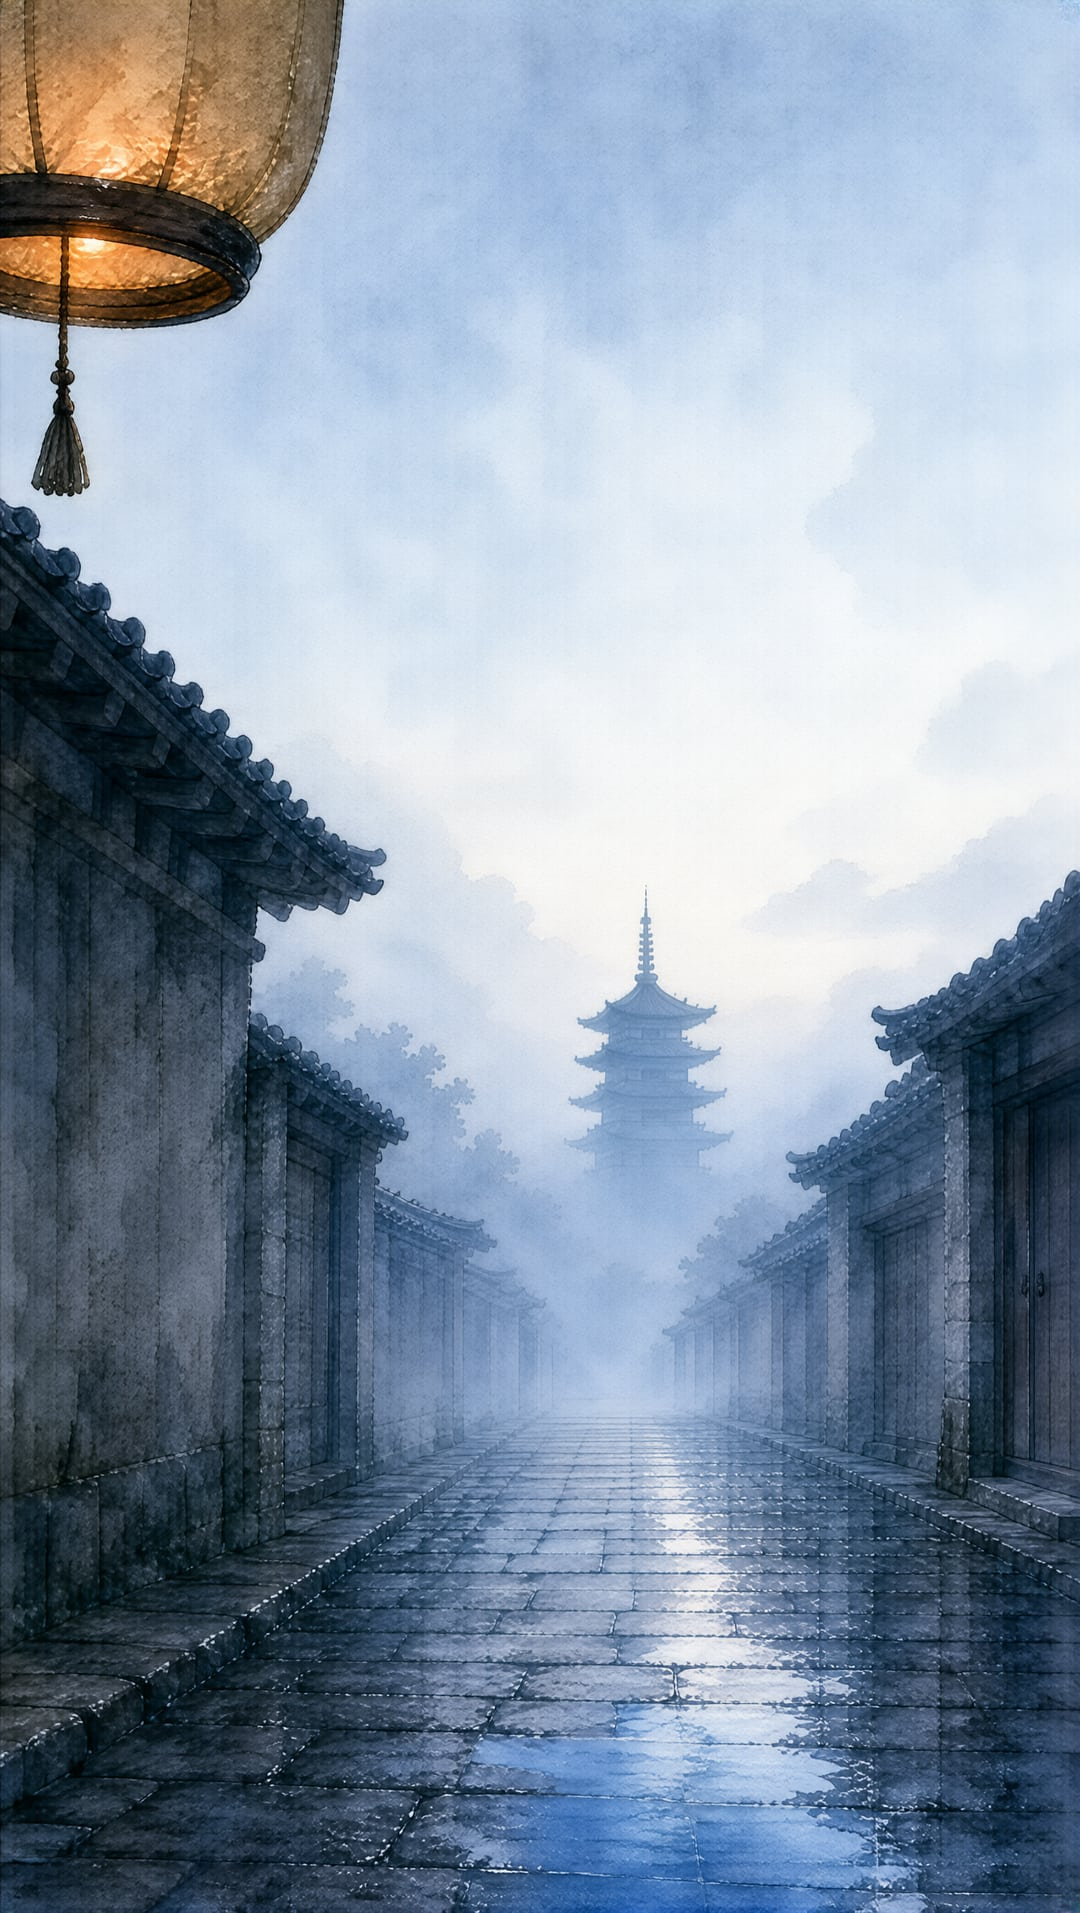
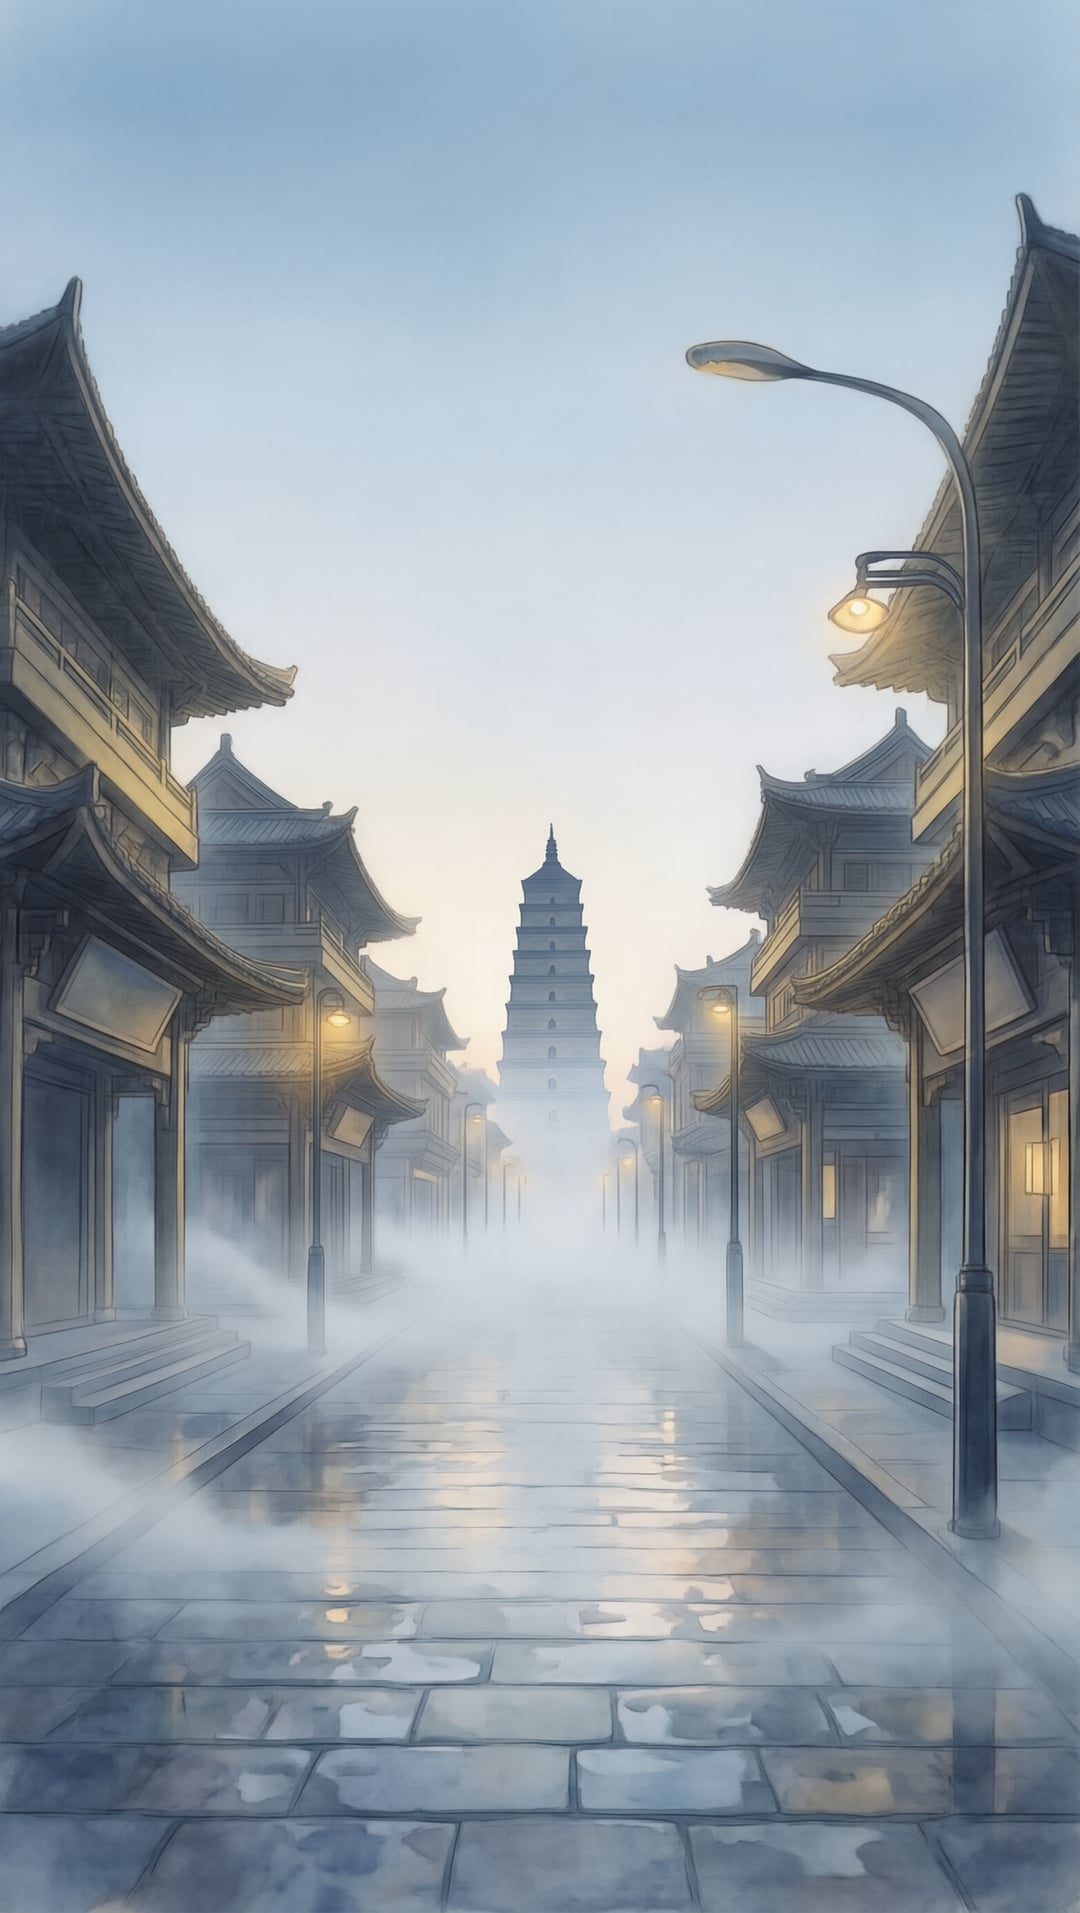
场景校准: 黎明/小巷/雨夜/烟花统一锚定现代不夜城街区(仿唐商铺街/金轮廓灯/灯箱店招),版本251025o

diff --git a/galgame/js/engine.js b/galgame/js/engine.js
@@ -49,7 +49,7 @@
       $("#sprites").appendChild(el);
     }
     if (who === "catgirl") el.innerHTML = ART.catGirl(expr || "normal");
-    else el.innerHTML = '<img class="chara-img" src="images/cat_mascot.webp?v=251025n" alt="唐猫（白猫）" draggable="false">';
+    else el.innerHTML = '<img class="chara-img" src="images/cat_mascot.webp?v=251025o" alt="唐猫（白猫）" draggable="false">';
     el.style.width = "clamp(220px, 60vmin, 400px)";
     requestAnimationFrame(() => { el.className = "sprite pos-" + (pos || "center") + " breathe"; });
   }
@@ -491,8 +491,8 @@
   };
   function galGrid(items) {
     return '<div class="gal-grid">' + items.map(g =>
-      '<figure class="gal-item" data-src="' + g.src + '?v=251025n" data-cap="' + g.cap + '">' +
-      '<img src="' + g.src + '?v=251025n" alt="" loading="lazy"><figcaption>' + g.cap + '</figcaption></figure>'
+      '<figure class="gal-item" data-src="' + g.src + '?v=251025o" data-cap="' + g.cap + '">' +
+      '<img src="' + g.src + '?v=251025o" alt="" loading="lazy"><figcaption>' + g.cap + '</figcaption></figure>'
     ).join("") + '</div>';
   }
   function showGallery() {
@@ -602,7 +602,7 @@
 
   /* ---------- 启动 ---------- */
   function boot() {
-    window.__GALGAME_VER = "251025n";
+    window.__GALGAME_VER = "251025o";
     $("#title-bg").innerHTML = ART.titleBg();
     bind();
     refreshTitle();

diff --git a/galgame/index.html b/galgame/index.html
@@ -5,7 +5,7 @@
 <meta name="viewport" content="width=device-width, initial-scale=1.0, viewport-fit=cover">
 <title>唐猫庭院 · 千年陕菜谭</title>
 <meta name="description" content="唐猫庭院 galgame —— 一段发生在千年陕菜庭院里的小小奇遇。为唐猫庭院餐厅与其点餐推荐系统而作的宣传视觉小说。">
-<link rel="stylesheet" href="style.css?v=251025n">
+<link rel="stylesheet" href="style.css?v=251025o">
 </head>
 <body>
 <div id="app">
@@ -68,15 +68,15 @@
   </div>
 </div>
 
-<script src="js/art.js?v=251025n"></script>
-<script src="js/audio.js?v=251025n"></script>
-<script src="js/story.js?v=251025n"></script>
-<script src="js/engine.js?v=251025n"></script>
+<script src="js/art.js?v=251025o"></script>
+<script src="js/audio.js?v=251025o"></script>
+<script src="js/story.js?v=251025o"></script>
+<script src="js/engine.js?v=251025o"></script>
 <script>
 /* 缓存自愈：若检测到旧版 engine（无版本标记）在跑，绕过缓存自动强刷一次（sessionStorage 防循环） */
 (function () {
   setTimeout(function () {
-    if (window.__GALGAME_VER === "251025n") return;
+    if (window.__GALGAME_VER === "251025o") return;
     try {
       if (sessionStorage.getItem("_gv_healed")) return;
       sessionStorage.setItem("_gv_healed", "1");

diff --git a/galgame/js/art.js b/galgame/js/art.js
@@ -91,7 +91,7 @@ const ART = (() => {
   };
   function catGirl(exprKey) {
     const img = CHARA_MAP[exprKey] || "smile";
-    return '<img class="chara-img" src="images/chara_' + img + '.webp?v=251025n" alt="唐猫" draggable="false">';
+    return '<img class="chara-img" src="images/chara_' + img + '.webp?v=251025o" alt="唐猫" draggable="false">';
   }
   /* 预加载全部差分，避免表情切换时闪白 */
   ["smile","normal","happy","excited","wink","shy","surprised","soft","sleepy","serious","smug","pout","sad","worried","cry"].forEach(n => {
@@ -189,7 +189,7 @@ const ART = (() => {
   /* ================= 场景背景（AI 厚涂竖版图包装为 svg，900x1600 与 9:16 生成图精确匹配） ================= */
   function photoBg(src, extra) {
     return '<svg viewBox="0 0 900 1600" preserveAspectRatio="xMidYMid slice" xmlns="http://www.w3.org/2000/svg">' +
-      '<image href="images/' + src + '?v=251025n" width="900" height="1600"/>' + (extra || "") +
+      '<image href="images/' + src + '?v=251025o" width="900" height="1600"/>' + (extra || "") +
       '</svg>';
   }
 

diff --git a/galgame/js/story.js b/galgame/js/story.js
@@ -134,7 +134,7 @@ function profileHtml(spice) {
 function promoHtml() {
   return (
     '<div style="display:flex;gap:12px;align-items:center;margin:2px 0 10px">' +
-    '<img src="images/chara_smile.webp?v=251025n" alt="唐猫" style="width:74px;height:74px;object-fit:cover;object-position:top;border-radius:50%;border:2px solid rgba(217,178,106,.5);flex:none">' +
+    '<img src="images/chara_smile.webp?v=251025o" alt="唐猫" style="width:74px;height:74px;object-fit:cover;object-position:top;border-radius:50%;border:2px solid rgba(217,178,106,.5);flex:none">' +
     '<div style="flex:1;background:rgba(217,178,106,.10);border:1px solid rgba(217,178,106,.35);border-radius:12px;padding:10px 12px;line-height:1.7">「客人要走了吗……走之前，本喵再啰嗦几句。这家店你逛了一晚上，但有几件事，得本喵亲口说才算数。」</div>' +
     '</div>' +
     '<h3>🏮 这家店</h3>' +
